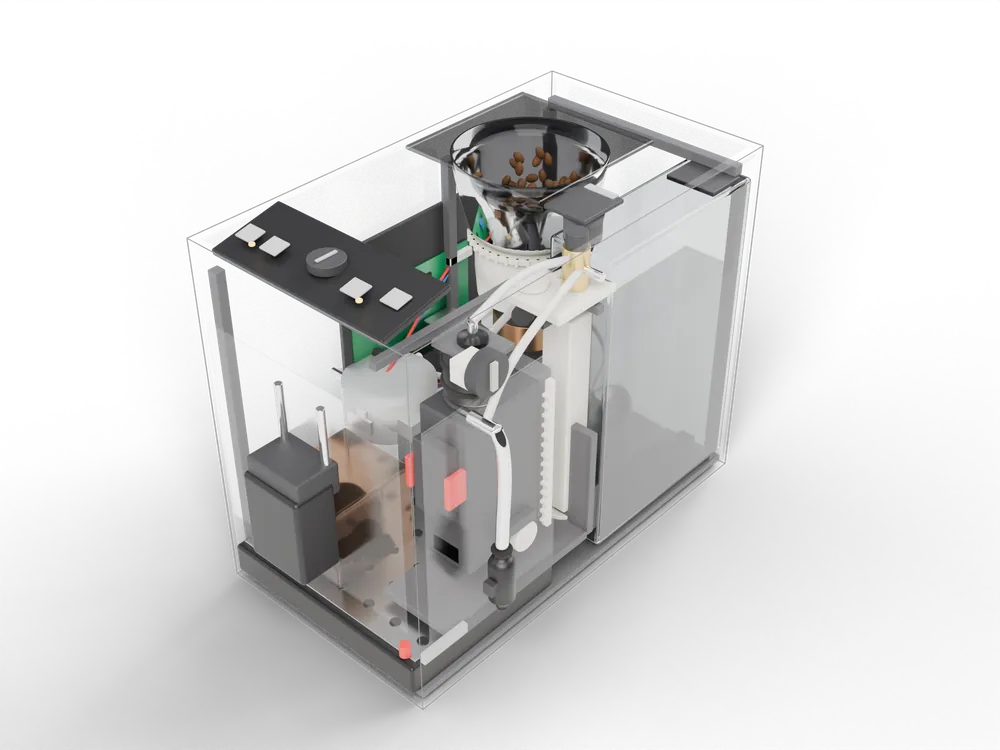
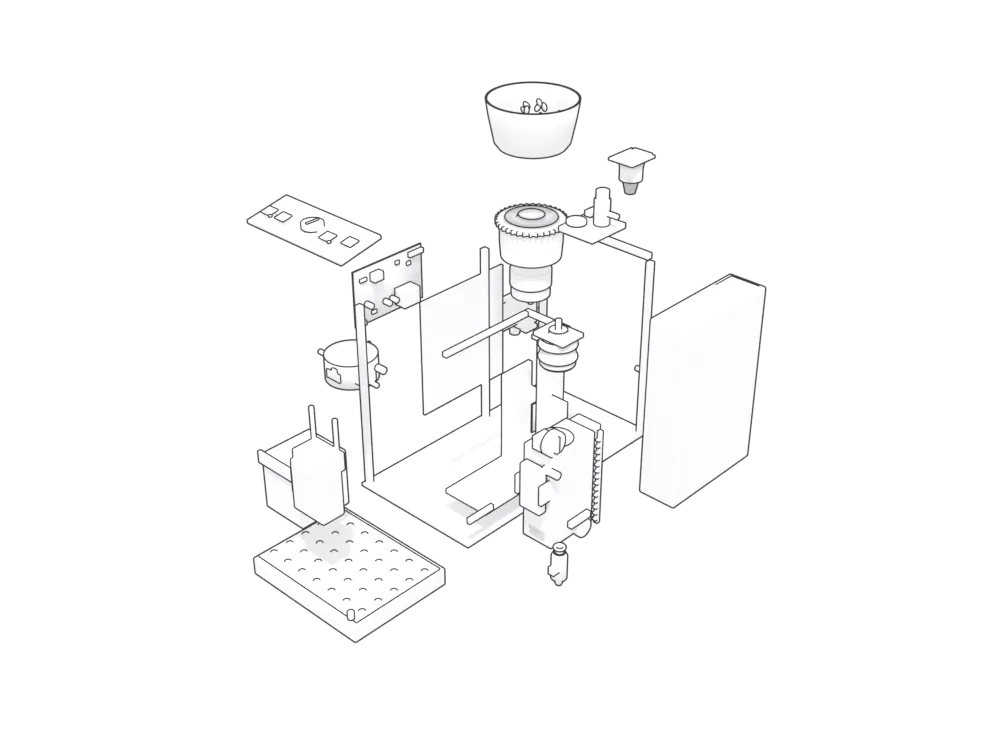
Vollautomaten-Doktor: Testmodus „linien“ für die Schnittzeichnung (Explosionsansicht als Strichgrafik)
Claude-Session: https://claude.ai/code/session_01J1VQ9KcXQAXvqdU6g4EkQC

diff --git a/kaffee/site/scripts/querschnitt/blender/render.py b/kaffee/site/scripts/querschnitt/blender/render.py
@@ -13,6 +13,7 @@ from PIL import Image
 
 name = sys.argv[1] if len(sys.argv) > 1 else 'delonghi_ecam'
 schnell = 'schnell' in sys.argv
+linien = 'linien' in sys.argv  # Explosionsansicht als technische Strichzeichnung (Workbench + Freestyle)
 bauart = name.replace('_', '-')
 W, H = (1000, 750) if schnell else (2000, 1500)
 SAMPLES = 48 if schnell else 160
@@ -48,12 +49,44 @@ sc.view_settings.exposure = -1.3
 sc.world = bpy.data.worlds.new('welt')
 bg = sc.world.node_tree.nodes['Background']
 bg.inputs['Color'].default_value = (0.9, 0.9, 0.92, 1)
-bg.inputs['Strength'].default_value = 0.2
+bg.inputs['Strength'].default_value = 1.0 if linien else 0.2
 
 # Kamera
 S = werkzeug.S
-kp = Vector([v * S for v in info['kamera']['position']])
-kz = Vector([v * S for v in info['kamera']['ziel']])
+kam = getattr(modell, 'KAMERA_EXPLOSION', info['kamera']) if linien else info['kamera']
+kp = Vector([v * S for v in kam['position']])
+kz = Vector([v * S for v in kam['ziel']])
+if linien:
+    # Teile auseinanderziehen, Schläuche/Kabel/Gehäusehaut ausblenden, alles weiß mit schwarzen Linien
+    for o in bpy.data.objects:
+        if o.type not in ('MESH', 'CURVE'):
+            continue
+        t = o.get('teil')
+        if t and t in modell.EXPLOSION:
+            o.location = o.location + Vector([v * S for v in modell.EXPLOSION[t]])
+        if o.type == 'CURVE' or o.name in ('huelle', 'kanten', 'frontblende', 'klappe', 'bohnendeckel'):
+            o['_cutter'] = True
+    # Headless gibt es kein OpenGL für Workbench, deshalb Cycles mit einem flachen weißen Material und Umgebungslicht
+    weiss = bpy.data.materials.new('linien_weiss')
+    weiss.use_nodes = True
+    weiss.node_tree.nodes['Principled BSDF'].inputs['Base Color'].default_value = (0.95, 0.95, 0.95, 1)
+    weiss.node_tree.nodes['Principled BSDF'].inputs['Roughness'].default_value = 1.0
+    for o in bpy.data.objects:
+        if o.type == 'MESH' and o.data.materials:
+            for i in range(len(o.data.materials)):
+                o.data.materials[i] = weiss
+    SAMPLES = 48
+    sc.render.use_freestyle = True
+    sc.render.line_thickness = 1.1
+    fs = bpy.context.view_layer.freestyle_settings
+    ls = fs.linesets.new('linien')
+    ls.select_silhouette = True; ls.select_crease = True; ls.select_border = True; ls.select_contour = True
+    fs.crease_angle = math.radians(120)
+    ls.linestyle.color = (0.05, 0.05, 0.05)
+    ls.linestyle.thickness = 1.3
+    sc.view_settings.view_transform = 'Standard'
+    sc.view_settings.look = 'None'
+    sc.view_settings.exposure = 0.0
 cam_data = bpy.data.cameras.new('kamera')
 cam_data.lens = info['kamera'].get('brennweite', 50)
 cam_data.clip_end = 100
@@ -79,16 +112,21 @@ def licht(name, typ, loc, energie, groesse=1.0, farbe=(1, 1, 1), ziel=kz):
     return o
 
 
-licht('key', 'AREA', (1.3, -1.6, 2.0), 380, 2.0, (1.0, 0.96, 0.9))
-licht('fill', 'AREA', (-2.0, -1.2, 1.0), 120, 3.0, (0.9, 0.94, 1.0))
-licht('rim', 'AREA', (0.4, 2.0, 1.6), 200, 2.0)
-licht('top', 'AREA', (0, 0, 2.5), 90, 3.0)
+if not linien:
+    licht('key', 'AREA', (1.3, -1.6, 2.0), 380, 2.0, (1.0, 0.96, 0.9))
+    licht('fill', 'AREA', (-2.0, -1.2, 1.0), 120, 3.0, (0.9, 0.94, 1.0))
+    licht('rim', 'AREA', (0.4, 2.0, 1.6), 200, 2.0)
+    licht('top', 'AREA', (0, 0, 2.5), 90, 3.0)
+else:
+    licht('sonne', 'SUN', (1, -1, 3), 1.2)
 
 # Schattenfänger-Boden
 bpy.ops.mesh.primitive_plane_add(size=4, location=(0, 0, -0.0005))
 boden = bpy.context.object
 boden.name = 'schattenfaenger'
 boden.is_shadow_catcher = True
+if linien:
+    boden['_cutter'] = True
 
 ordner = os.path.join(SITE, 'public', 'bilder', 'querschnitt')
 os.makedirs(ordner, exist_ok=True)
@@ -135,6 +173,7 @@ webp(basis, os.path.join(ordner, f'{bauart}-1000.webp'), 1000, 80)
 # Anker und Umriss
 anker = {}
 for k, p in info['anker'].items():
+    p = Vector(p) + (Vector([v * S for v in modell.EXPLOSION.get(k, (0, 0, 0))]) if linien else Vector((0, 0, 0)))
     v = world_to_camera_view(sc, cam, Vector(p))
     anker[k] = [round(v.x * W), round((1 - v.y) * H)]
 minx, miny, maxx, maxy = W, H, 0, 0
@@ -146,7 +185,7 @@ for o in bpy.data.objects:
             miny, maxy = min(miny, (1 - v.y) * H), max(maxy, (1 - v.y) * H)
 umriss = [max(0, round(minx)), max(0, round(miny)), min(W, round(maxx)), min(H, round(maxy))]
 
-if not schnell:
+if not schnell and not linien:
     for t in teile:
         png = os.path.join(tmp, f'{bauart}-{t}.png')
         rendern(png, t, SAMPLES_TEIL)
@@ -171,7 +210,7 @@ for i, k in enumerate(labels['oben']):
     pos[k] = [round(W * (0.36 + 0.22 * i)), 60]
     eng[k] = [round(ex0 + (ex1 - ex0) * (0.32 + 0.3 * i)), ey0 + 40]
 assert not (set(teile) - set(pos)), f'Labels fehlen: {set(teile) - set(pos)}'
-if not schnell:
+if not schnell and not linien:
     json.dump({'bild': f'/bilder/querschnitt/{bauart}', 'breite': W, 'hoehe': H, 'viewBox': [0, 0, W, H],
                'viewBoxEng': [ex0, ey0, ex1 - ex0, ey1 - ey0], 'anker': anker, 'labels': pos, 'labelsEng': eng, 'teile': teile},
               open(os.path.join(SITE, 'src', 'querschnitte', f'{bauart}.json'), 'w'), indent=1)

diff --git a/kaffee/site/scripts/querschnitt/blender/delonghi_ecam.py b/kaffee/site/scripts/querschnitt/blender/delonghi_ecam.py
@@ -14,6 +14,14 @@ LABELS = {
     'oben': ['bohnen', 'mahlwerk'],
 }
 KAMERA = {'position': (680, -740, 880), 'ziel': (0, 10, 160), 'brennweite': 50}
+# Explosionsansicht: Versatz je Bauteil in mm (Richtung, in die das Teil aus dem Gerät gezogen wird)
+EXPLOSION = {
+    'wassertank': (170, 40, 0), 'bruehgruppe': (170, -70, 0), 'bruehkopf': (170, -70, 110), 'ventil': (80, 0, 170),
+    'bohnen': (0, 0, 230), 'mahlwerk': (0, 0, 120), 'pulverschacht': (90, 40, 190), 'bedienfeld': (-40, -150, 150),
+    'elektronik': (-170, 0, 40), 'thermoblock': (-160, -60, 0), 'pumpe': (-140, 120, -10), 'flowmeter': (40, 150, 0),
+    'satzbehaelter': (-70, -170, 0), 'abtropfschale': (0, -210, -50), 'auslauf': (0, -150, 0), 'aufschaeumer': (150, -70, -40),
+}
+KAMERA_EXPLOSION = {'position': (1250, -1350, 1250), 'ziel': (0, -20, 170), 'brennweite': 50}
 
 
 def bauen():
